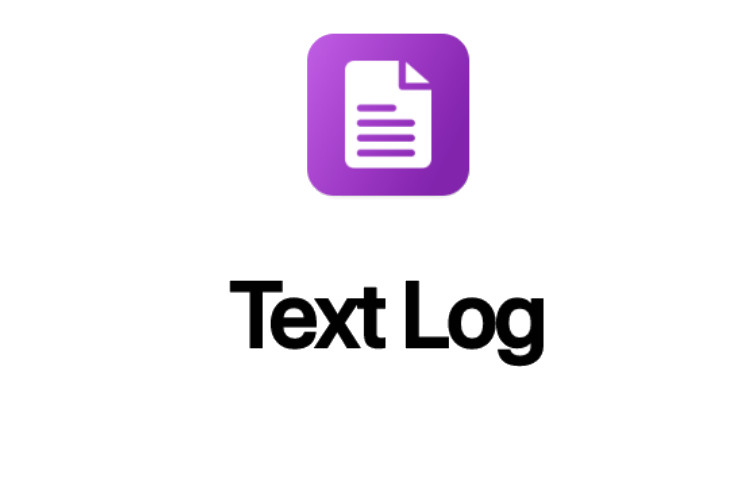
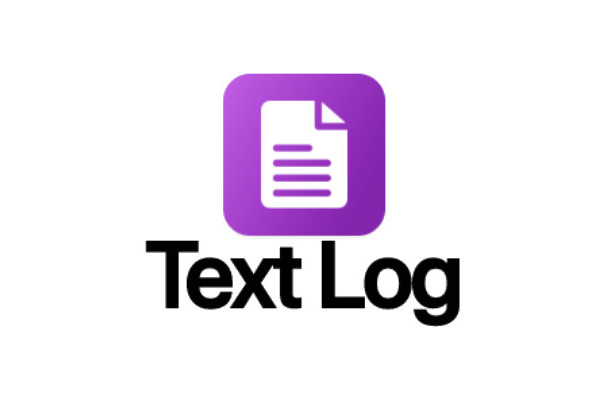
Updates for images and added new shortcut

Changed region(s): [[0.24, 0.06, 0.78, 0.84]]

diff --git a/index.html b/index.html
@@ -260,7 +260,24 @@
                 </div>               
               </div>
             </div>
-            
+            <div class="col-sm-6 col-md-4 col-lg-4 col-xl-4 mix design">
+              <div class="portfolio-item">
+                <div class="shot-item">
+                  <img src="assets/img/gallery/img-6.jpg" alt="" /> 
+                  <div class="overlay">
+                    <div class="icons">
+                      <a class="lightbox preview" href="assets/img/gallery/img-6.jpg">
+                        <i class="icon-eye"></i>
+                      </a>
+                      <a class="link" href="https://www.icloud.com/shortcuts/52d24139da604d50ae98bc95b30d02dd">
+                        <i class="icon-link"></i>
+                      </a>
+                    </div>
+                  </div>
+                </div>               
+              </div>
+            </div>            
+
           </div>
         </div>
       </div>
